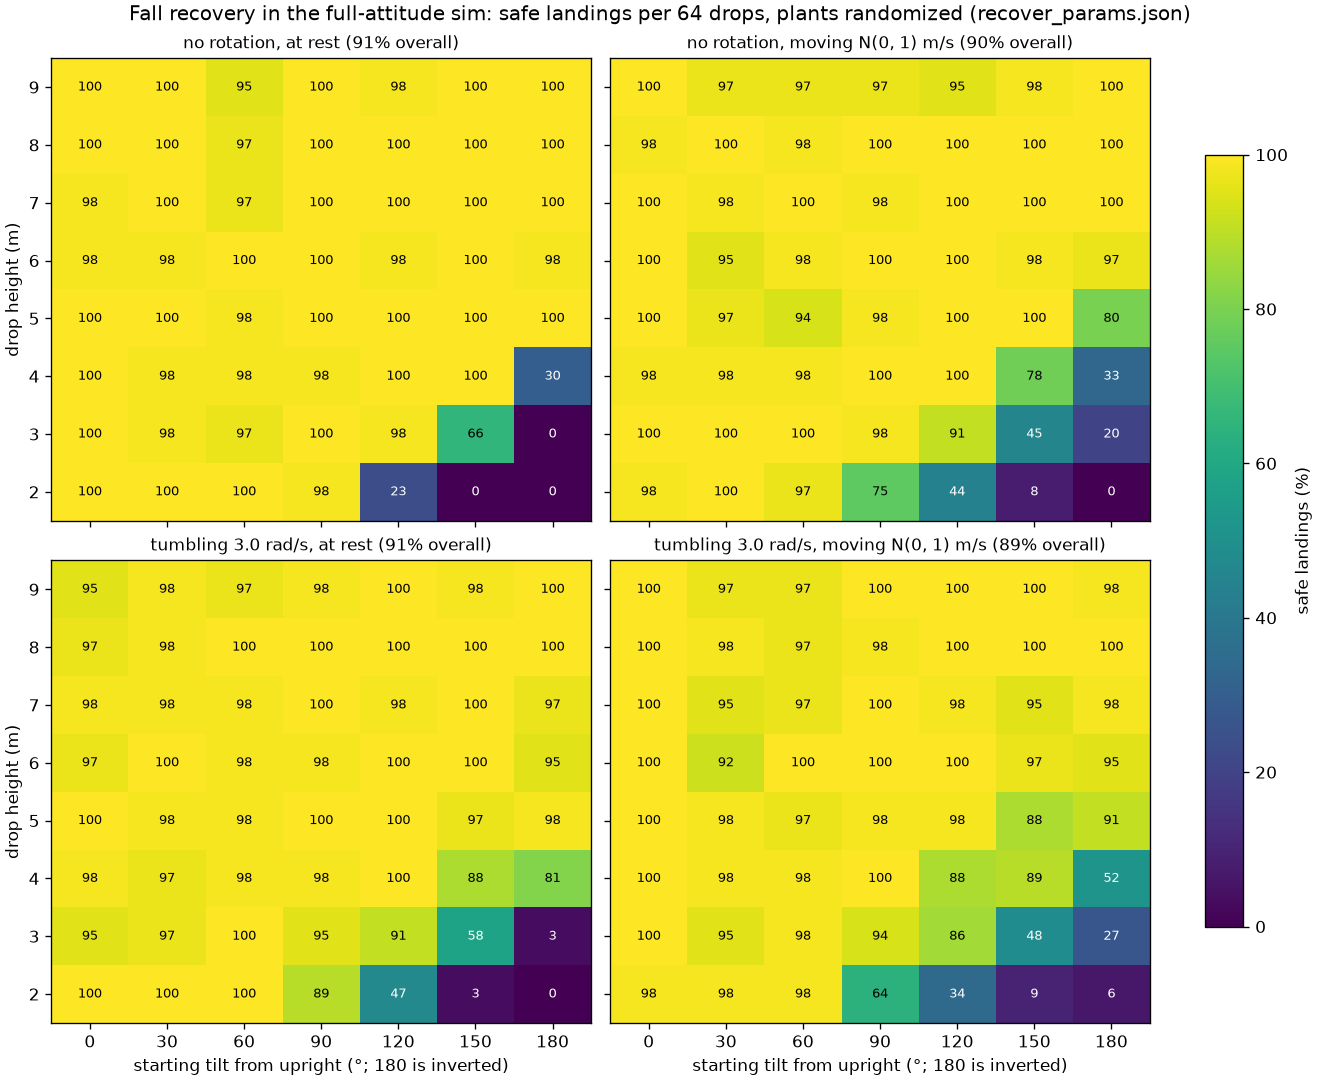
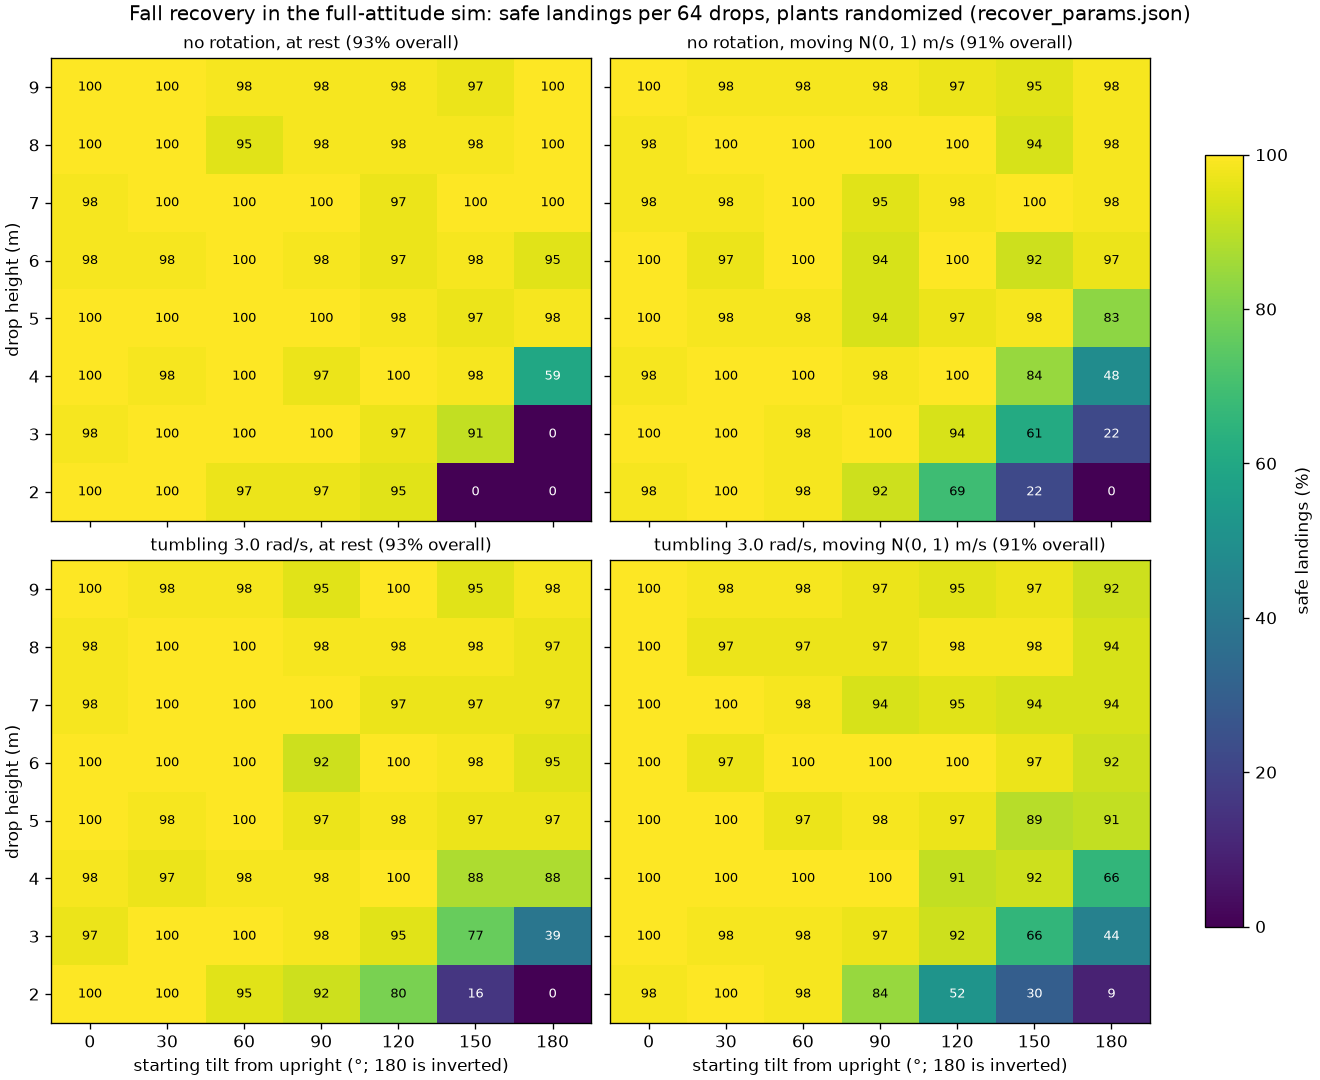
Recovery map on the range-limited sim and retuned params: 92% overall

diff --git a/src/sw/sim/models/NOTES.md b/src/sw/sim/models/NOTES.md
@@ -144,7 +144,7 @@ All checks use only the recorded flights; nothing here is a new physical measure
 
 **Ground contact (validate_contact.py).** 500 motors-off touchdowns (vertical 0.3–2 m/s, horizontal 0–2 m/s, tilt 0–40° in roll or pitch, sliding toward or away from the low side) in rigid.py and in MuJoCo's own contact physics with the same body and contact points. They agree on which landings end upright in 100% of cases (97% with the CAD inertia). The legless belly tips on this grid only when pitched 40° nose-down while sliding forward at 1–1.5 m/s or more. Peak contact forces in rigid.py are about 1.7× MuJoCo's on level drops; GROUND_K 650 / GROUND_C 25 would match them, but neither engine's stiffness is measured, so force thresholds are only a loose backstop to the touchdown-speed limit.
 
-**Recovery (recover.py, models/recover_params.json; map from recover_map.py).** Drops from 2–9 m at 0–180° from upright, still or tumbling at 3 rad/s, at rest or moving N(0, 1) m/s, plants randomized, 64 drops per cell: 90% safe overall (83% before detecting the fall in 0.05 s instead of 0.15 s, rolling the long way round past 165° and leaking the held velocity estimate); from 5 m up every cell is 95–100%. Within 60° of upright, 86–100% at every height, touching down at a median 0.9–1.1 m/s and 2–7°. From 5–9 m, 88–100% from nearly any start, inverted included. Every cell is at least 92% safe from 2 m at 90°, 3 m at 120°, 4 m at 150° and 5 m inverted; below that edge there is not enough height. An open-loop bang-bang bound on the motor model rights and brakes within 0.7/1.1/1.8/3.1 m from 90/120/150/180° motors-off, so about 1–2 m is still left on the table (the controller's rate loop keeps the far motor low until late, where the optimum ramps it during the spin). The controller senses only the IMU, plus the height it started from to within 0.3 m.
+**Recovery (recover.py, models/recover_params.json; map from recover_map.py).** Drops from 2–9 m at 0–180° from upright, still or tumbling at 3 rad/s, at rest or moving N(0, 1) m/s, plants randomized, 64 drops per cell: 92% safe overall (83% before detecting the fall in 0.05 s instead of 0.15 s, rolling the long way round past 165°, leaking the held velocity estimate and allowing a righting collective up to 2.5× the weight); every cell is 95–100% except 150° from 2 m and inverted below 4 m (91% at 150° from 3 m, 59% inverted from 4 m). Within 60° of upright, 86–100% at every height, touching down at a median 0.9–1.1 m/s and 2–7°. From 5–9 m, 88–100% from nearly any start, inverted included. Below that edge there is not enough height. An open-loop bang-bang bound on the motor model rights and brakes within 0.7/1.1/1.8/3.1 m from 90/120/150/180° motors-off, so about 1–2 m is still left on the table (the controller's rate loop keeps the far motor low until late, where the optimum ramps it during the spin). The controller senses only the IMU, plus the height it started from to within 0.3 m.
 
 **Flip (flip.py, models/flip_params.json).** From a 3 m hover, held 10 s afterwards, over 1024 randomized plants: 97.6% clean (never touches the ground, ends within 10° of upright and still), median height lost 0.59 m (90th percentile 1.18) after punching up a median 1.1 m first; 100% clean on the nominal plant. Held 15 s it is 95.6%: with no altimeter or camera the hold's height and velocity estimates drift (the velocity leaks to zero over leak_tau, as the firmware's lost-tag dead reckoning does). The sim's gyro bias is the measured post-calibration residual (about 0.03°/s at rest, 0.11°/s used); the earlier 0.57°/s had tilted the hold's estimate 8° in 12 s.
 
